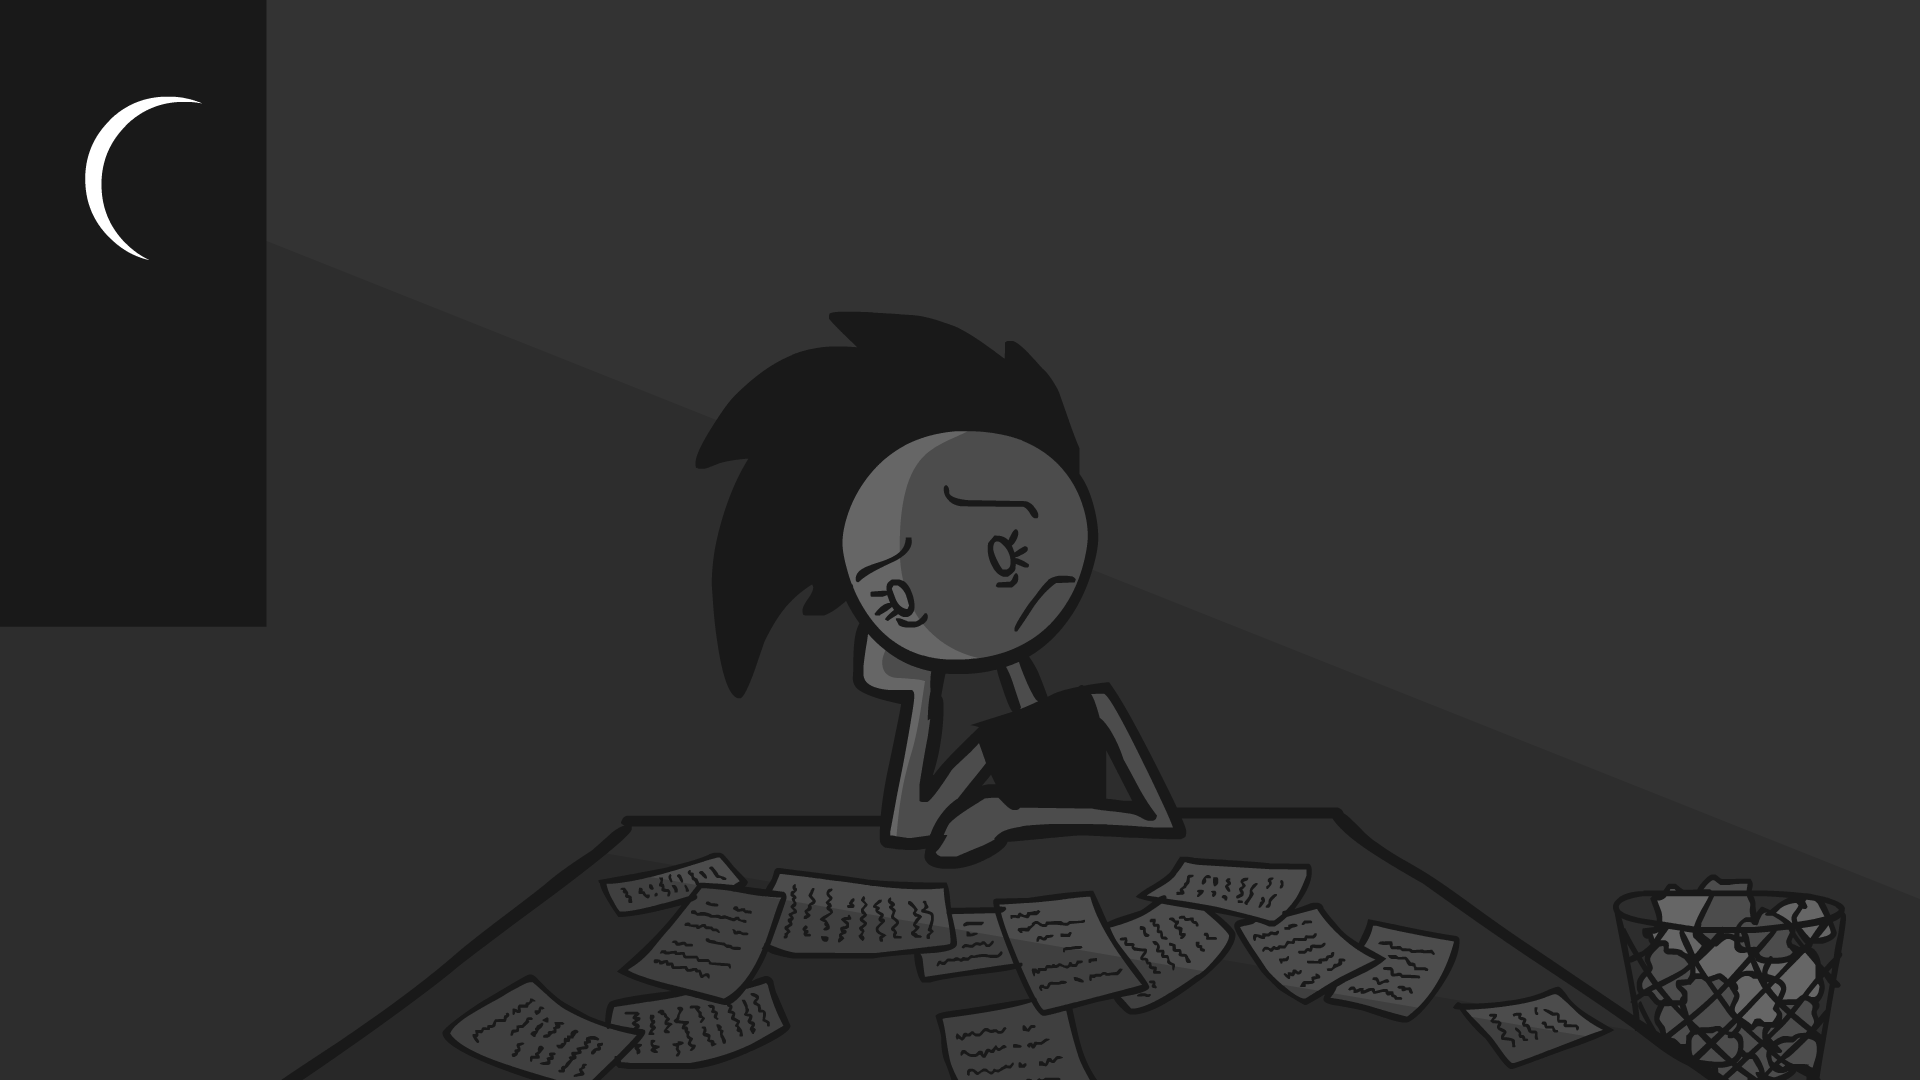
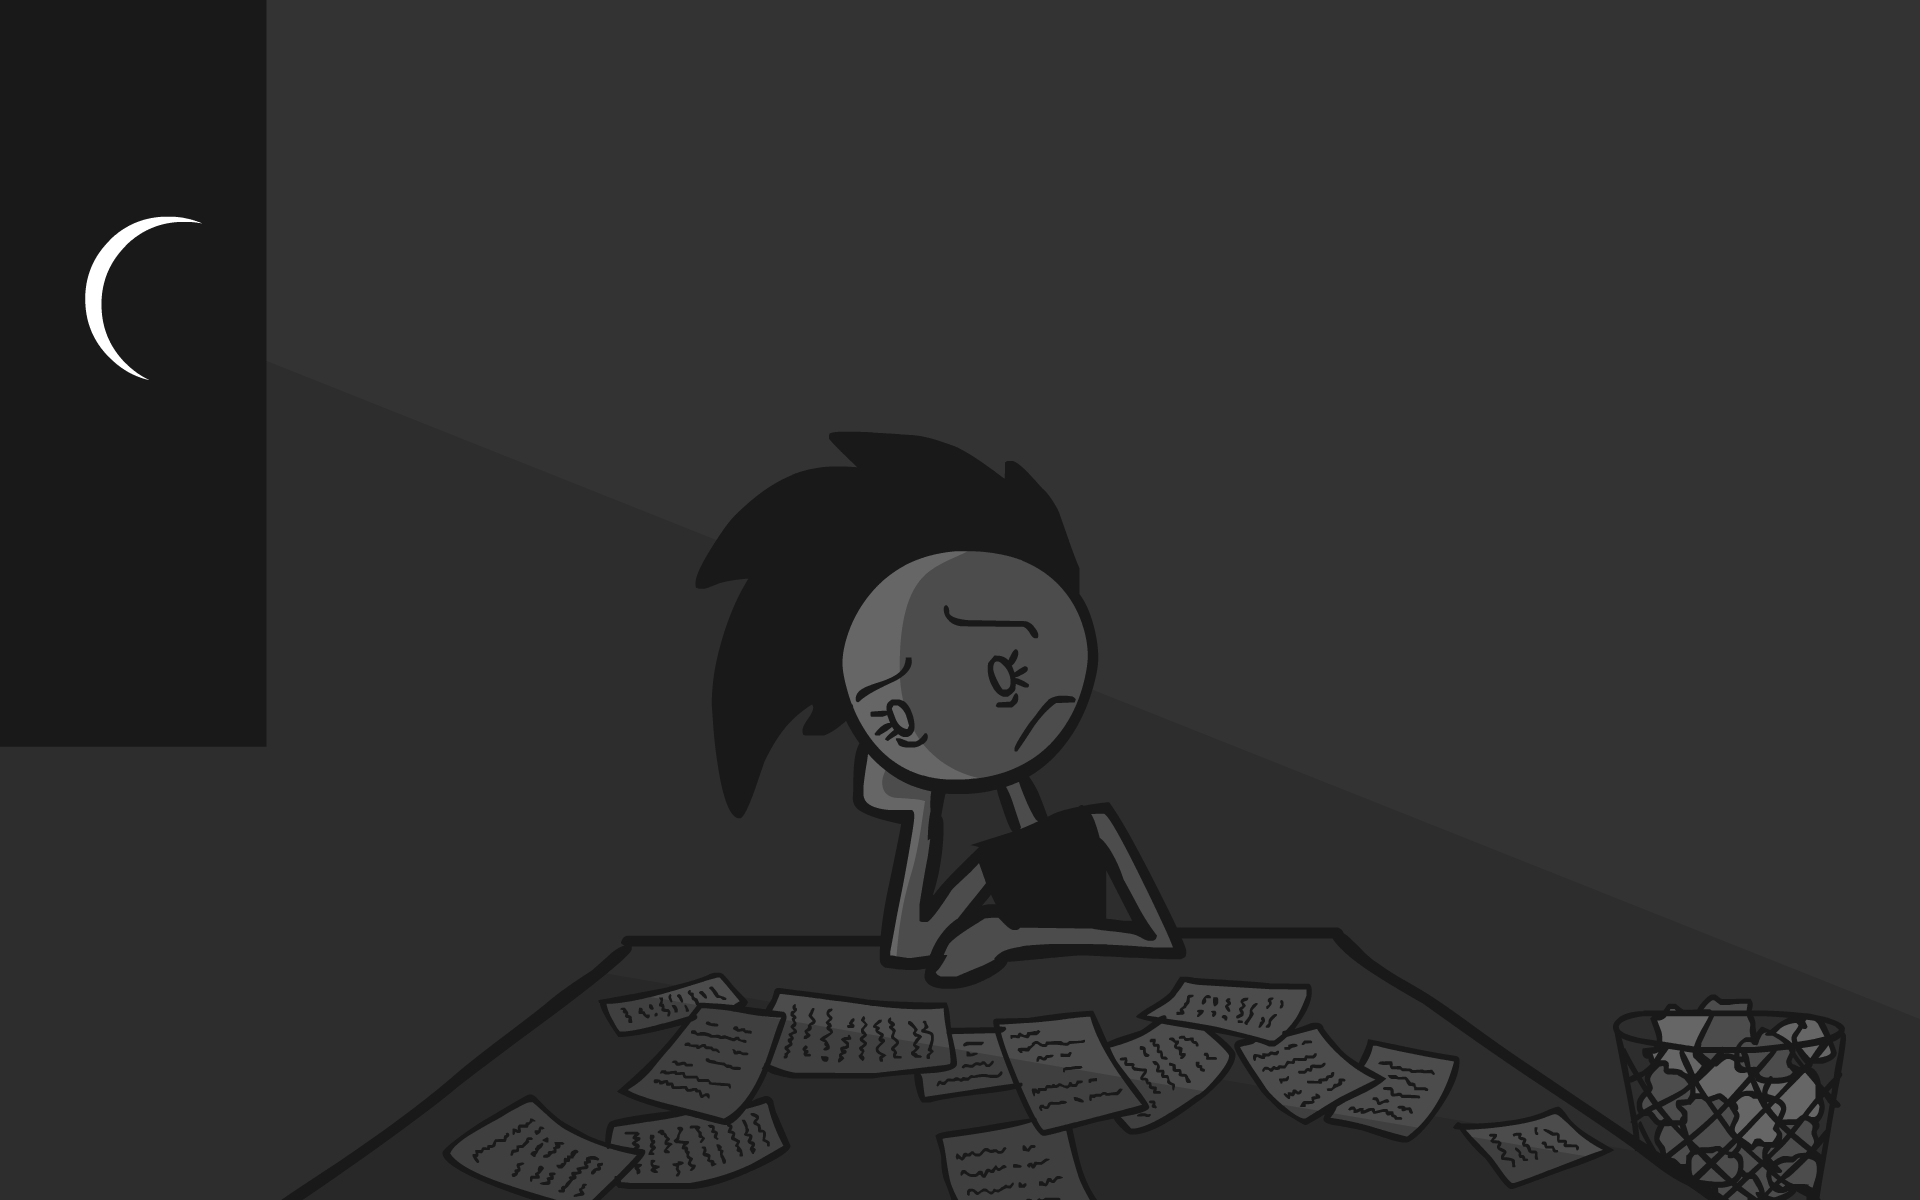
entire interactive is more or less GOOD TO GO

Changed region(s): [[0.2188, 0.275, 0.9688, 1.0], [0.0312, 0.0917, 0.0938, 0.3056]]

diff --git a/scripts/scenes/Scene_Credits.js b/scripts/scenes/Scene_Credits.js
@@ -9,17 +9,19 @@ function Scene_Credits(){
 	// HEART SHAPED NEURONS
 	Neuron.unserialize(self,'{"neurons":[[-92,-72],[-24,75],[-57,199],[-77,304],[-76,405],[-65,538],[-81,696],[45,-72],[56,84],[27,205],[35,321],[91,433],[32,521],[89,659],[208,-35],[153,57],[186,214],[202,289],[174,384],[149,558],[193,675],[266,-90],[273,85],[276,158],[300,324],[288,424],[330,573],[284,687],[452,-28],[431,87],[412,206],[452,287],[387,387],[395,539],[401,628],[518,-80],[570,65],[542,146],[558,318],[522,407],[513,527],[505,637],[661,-83],[656,54],[678,213],[654,294],[660,430],[676,541],[648,669],[780,-81],[752,64],[808,201],[799,330],[746,420],[808,522],[779,657],[892,-81],[881,75],[874,171],[907,319],[883,455],[920,514],[889,682],[-291,-76],[-308,94],[-303,201],[-292,325],[-254,387],[-284,565],[-282,635]],"connections":[[33,25],[25,33],[25,17],[17,25],[17,23],[23,17],[23,30],[30,23],[30,31],[31,30],[31,37],[37,31],[37,44],[44,37],[44,45],[45,44],[45,39],[39,45],[39,33],[33,39]]}');
 
-	// Credits
-	//self.credits = new Credits();
-	self.credits = new CreditsCrap();
-	self.sprites.push(self.credits);
-
-	// UNDO THE CAMERA TRANSFORM...	
-	self.credits.x = 1430; // totally arbitrary guess
-	self.credits.y = 1000; // totally arbitrary guess
-	self.credits.x = 1400; // totally arbitrary guess
-	self.credits.y = -40; // totally arbitrary guess
-	self.credits.scale = 1/self.camera.zoom;
+	// THX
+	self.thx = new Sprite({
+		pivotX:0.5, pivotY:0.5,
+		spritesheet: images.thx,
+		frameWidth:300, frameHeight:400,
+		frameTotal:6
+	});
+	self.sprites.push(self.thx);
+	self.thx.timer = 0;
+	self.thx.x = 1180;
+	self.thx.y = 300;
+	self.thx.scale = (1/self.cameraEased.zoom)*0.9;
+	//self.thx.bounce = 1.1;
 
 	// Update: after a while, swipe to a Crap Scene
 	var heartNeurons = [33, 25, 17, 23, 30, 31, 37, 44, 45, 39];
@@ -36,39 +38,84 @@ function Scene_Credits(){
 			}
 		}
 
-		// Credits scroll up
-		//self.credits.y -= 6;
+		// THANKS
+		self.thx.timer++;
+		//self.thx.visible = (self.thx.timer<40);
+		if(self.thx.timer>=45){
+			self.thx.timer = 0;
+			self.thx.sway = 0.1;
+			if(self.thx.currentFrame<self.thx.frameTotal-1){
+				self.thx.currentFrame++;
+			}else{
+				self.thx.dead = true;
+			}
+		}
 
 		// Previous Update
 		_prevUpdate.call(self);
 
 	};
 
+	// Scene Messages
+	var _listener1 = subscribe("/scene/nicky",function(){
+		unsubscribe(_listener1);
+		self.addCredits(0).url = "https://www.patreon.com/ncase";
+	});
+	var _listener2 = subscribe("/scene/phyrnna",function(){
+		unsubscribe(_listener2);
+		self.addCredits(1).url = "https://phyrnna.bandcamp.com/";
+	});
+	var _listener3 = subscribe("/scene/potp",function(){
+		unsubscribe(_listener3);
+		self.addCredits(2).url = "http://ncase.me/polygons";
+	});
+
 	/////////////
 	// CREDITS //
 	/////////////
 
-	function CreditsCrap(){
-
-		var self = this;
-		Sprite.call(self,{
-			pivotX:1, pivotY:0,
-			spritesheet: images.credits_crap,
-			frameWidth:300, frameHeight:540,
-			frameTotal:1
-		});
-
-	}
+	self.addCredits = function(index){
+		var credit = new Credits();
+		credit.currentFrame = index;
+		credit.y = 150+index*150;
+		credit.initY = credit.y;
+		credit.scale = (1/self.cameraEased.zoom)*0.9;
+		self.sprites.push(credit);
+		return credit;
+	};
 
 	function Credits(){
 
 		var self = this;
 		Sprite.call(self,{
-			pivotX:1, pivotY:0,
+			pivotX:0.5, pivotY:0.5,
 			spritesheet: images.credits,
-			frameWidth:320, frameHeight:1000,
-			frameTotal:1
+			frameWidth:300, frameHeight:100,
+			frameTotal:3
 		});
+
+		self.x = 1650;
+		self.gotoX = 1180;
+
+		self.clickRectangle = {x:-200,y:-50,width:400,height:100};
+		self.onClick = function(){
+			var win = window.open(self.url, '_blank');
+			win.focus();
+		};
+		self.onHover = function(){
+			// sound!
+		};
+
+		// UPDATE
+		var _prevUpdate = self.update;
+		self.update = function(){
+			
+			var offsetX = (self.isMouseOver()) ? -10 : 0;
+			self.x = self.x*0.7 + (self.gotoX+offsetX)*0.3;
+
+			_prevUpdate.call(self);
+
+		};
 
 	}
 

diff --git a/scripts/scenes/Scene_Story.js b/scripts/scenes/Scene_Story.js
@@ -4,10 +4,10 @@ function Scene_Intro(){
 	StoryScene.call(self);
 
 	// Camera
-	self.setCamera(480, 270, 1);
+	self.setCamera(480, 270-60, 1);
 
 	// Nicky Sprite
-	self.sprites.push(new CrapBackground());
+	self.sprites.push(new Background());
 
 	// Scene Transitions
 	self.transitionOut = function(){
@@ -15,22 +15,29 @@ function Scene_Intro(){
 		return function(){return (self.cameraEased.zoom>4);}; // done when this is
 	};
 
+	// Update
+	var _prevUpdate = self.update;
+	self.update = function(){
+		self.camera.y += 0.25;
+		_prevUpdate.call(self);
+	};
+
 	////////////////////
 	// SPRITE CLASSES //
 	////////////////////
 
-	function CrapBackground(){
+	function Background(){
 
 		var self = this;
 		Sprite.call(self,{
 			pivotX:0.5, pivotY:0.5,
 			spritesheet: images.introBG,
-			frameWidth:1920, frameHeight:1080,
+			frameWidth:1920, frameHeight:1200,
 			frameTotal:1
 		});
 
 		self.x = 480;
-		self.y = 270;
+		self.y = 240;
 		self.scale = 0.5;
 
 	}
@@ -46,29 +53,41 @@ function Scene_Outro(){
 	self.setCamera(480, 270, 1);
 
 	// Nicky Sprite
-	self.sprites.push(new CrapBackground());
+	self.sprites.push(new Background());
 
 	// Scene Transitions
 	self.transitionIn = function(){
 		self.cameraEased.zoom = 6;
 	};
 
+	// Update
+	var _prevUpdate = self.update;
+	self.update = function(){
+		self.camera.y -= 0.18;
+		_prevUpdate.call(self);
+	};
+	self._updateProperty = function(name){
+		var cam = self.camera;
+		var eased = self.cameraEased;
+		eased[name] = eased[name]*0.5 + cam[name]*0.5;
+	};
+
 	////////////////////
 	// SPRITE CLASSES //
 	////////////////////
 
-	function CrapBackground(){
+	function Background(){
 
 		var self = this;
 		Sprite.call(self,{
 			pivotX:0.5, pivotY:0.5,
 			spritesheet: images.outroBG,
-			frameWidth:1920, frameHeight:1080,
+			frameWidth:1920, frameHeight:1200,
 			frameTotal:1
 		});
 
 		self.x = 480;
-		self.y = 270;
+		self.y = 240;
 		self.scale = 0.5;
 
 	}

diff --git a/scripts/core/Sprite.js b/scripts/core/Sprite.js
@@ -39,7 +39,6 @@ function Sprite(config){
 	// Click Area
 	self.clickable = true;
 	self.clickRectangle = null;
-	//self.clickRecovering = false;
 	self.onClick = function(){};
 	self.onHover = function(){};
 	self.isMouseOver = function(){
@@ -57,8 +56,6 @@ function Sprite(config){
 	self.listener = subscribe("/mouse/down",function(){
 		if(self.onClick && self.isMouseOver()){// && !self.clickRecovering){
 			self.onClick();
-			//self.clickRecovering = true;
-			self.hoverAlpha = 0;
 		}
 	});
 
@@ -68,22 +65,18 @@ function Sprite(config){
 
 
 	// Update
-	self.hoverAlpha = 0;
+	var lastHovered = false;
 	self.update = function(){
 
-		// Is click recovered?
-		/*var imo = self.isMouseOver();
-		if(!imo) self.clickRecovering=false;*/
-
 		// Mouse
-		if(self.isMouseOver()){// && !self.clickRecovering){
-			if(self.hoverAlpha==0) self.onHover();
-			self.hoverAlpha = self.hoverAlpha*0.5 + 1*0.5;
-			if(self.hoverAlpha>0.99) self.hoverAlpha=1;
+		if(self.isMouseOver()){
+			if(!lastHovered){
+				lastHovered=true;
+				self.onHover();
+			}
 			canvas.style.cursor = "pointer";
 		}else{
-			self.hoverAlpha = self.hoverAlpha*0.5 + 0*0.5;
-			if(self.hoverAlpha<0.01) self.hoverAlpha=0;
+			lastHovered = false;
 		}
 
 		// Animation
@@ -129,11 +122,6 @@ function Sprite(config){
 		var dy = -self.height*self.pivotY;
 		var dw = self.width;
 		var dh = self.height;
-		if(self.hover && self.hoverAlpha>0){
-			ctx.globalAlpha = self.hoverAlpha;
-			ctx.drawImage(self.hover, sx,sy,sw,sh, dx,dy,dw,dh);
-			ctx.globalAlpha = 1;
-		}
 		ctx.drawImage(self.spritesheet, sx,sy,sw,sh, dx,dy,dw,dh);
 		
 		ctx.restore();

diff --git a/scripts/main.js b/scripts/main.js
@@ -29,8 +29,8 @@ Preload({
 		// Misc Crap
 		{id:"introBG", src:"assets/images/intro.png"},
 		{id:"outroBG", src:"assets/images/outro.png"},
-		{id:"credits", src:"assets/images/credits.png"},
-		{id:"credits_crap", src:"assets/images/credits_crap.png"},
+		{id:"credits", src:"assets/sprites/credits.png"},
+		{id:"thx", src:"assets/sprites/thx.png"},
 
 		// Shade
 		{id:"shade", src:"assets/sprites/shade.png"}
@@ -64,5 +64,6 @@ subscribe("/init",function(){
 	// Initialize Shtuff
 	Interactive.init();
 	Narrator.goto("INTRO");
+	//Narrator.goto("CREDITS");
 
 });

diff --git a/scripts/scenes/Scene.js b/scripts/scenes/Scene.js
@@ -140,13 +140,13 @@ function Scene(){
 
 	// Update
 	self.update = function(){
-		_updateProperty("x");
-		_updateProperty("y");
-		_updateProperty("zoom");
+		self._updateProperty("x");
+		self._updateProperty("y");
+		self._updateProperty("zoom");
 	};
 	self.CAM_SPRING = 0.2;
 	self.CAM_DAMPENING = 0.64;
-	var _updateProperty = function(name){
+	self._updateProperty = function(name){
 		var cam = self.camera;
 		var vel = self.cameraVelocity;
 		var eased = self.cameraEased;

diff --git a/scripts/narrator/4_credits.js b/scripts/narrator/4_credits.js
@@ -41,9 +41,9 @@ Narrator.addStates({
 		start:function(){
 			//Narrator.music("sfx_loop",{volume:0.05,loop:-1})
 			Narrator.scene("Credits")
-					.talk("cred0","cred1","cred2","cred3","cred4")
+					.talk("cred0","cred1","cred2")
 					.message("/scene/nicky")
-					.talk("cred5")
+					.talk("cred3","cred4","cred5")
 					.message("/scene/phyrnna")
 					.talk("cred6","cred7")
 					.message("/scene/potp")

diff --git a/scripts/core/Controls.js b/scripts/core/Controls.js
@@ -20,6 +20,12 @@ subscribe("/mouse/down",function(){
 		play.setAttribute("playing","true");
 	}
 });
+window.top.onblur = window.onblur = function(){
+	if(Interactive.PLAYING){
+		Interactive.pause();
+		play.setAttribute("playing","false");
+	}
+};
 
 //////////////////////
 /// VOLUME CONTROL ///

diff --git a/README.md b/README.md
@@ -2,12 +2,11 @@
 
 All code and art is dedicated to the public domain via
 [CC0](http://creativecommons.org/publicdomain/zero/1.0/),
-with the exception of a few external libraries and sound effects I didn't make.
+with the exception of a few external libraries and audio stuff I didn't make.
 
 ---
 
-**Thank you to my Patreon supporters for making this possible!**    
-(don't worry, you'll also be credited in the final version, too, whenever that's done)
+**Thank you to my Patreon supporters for making this possible!**
 
 * Aimee Jarboe
 * Ben Lin
@@ -21,6 +20,7 @@ with the exception of a few external libraries and sound effects I didn't make.
 * Darri Arnarson
 * Dee
 * Delrian
+* Dylan Field
 * Fahrstuhl
 * George 
 * Glen Ivey
@@ -43,9 +43,23 @@ with the exception of a few external libraries and sound effects I didn't make.
 * Xander MeowMix C
 * Xavier Gaeta
 
+**Special thanks to these lovely peeps, too!**
+
+* Bret Victor,
+* Dylan Field
+* Rachel Nabors
+* Rin Ray
+* Rio Guthrie-Honea
+* Janessa Munt
+* Vanessa Shen
+* YOU. haha
+
 ---
+
+**Music by Phyrnna**
 
 **Sound Credits**
 
 * [Neuron Clicky-Clicky Sound](http://freesound.org/people/BMacZero/sounds/94132/) (CC0)
-* [Ambient Underwater Loop](http://freesound.org/people/akemov/sounds/255597/) (CC-BY)
+
+**Code Libraries**
